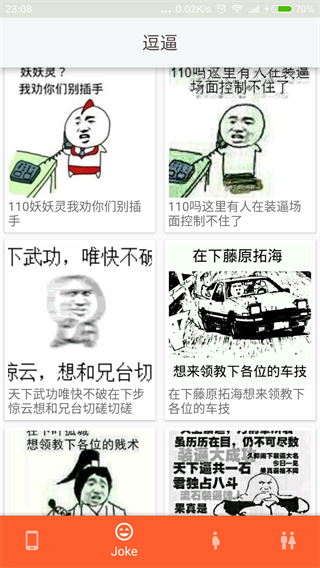
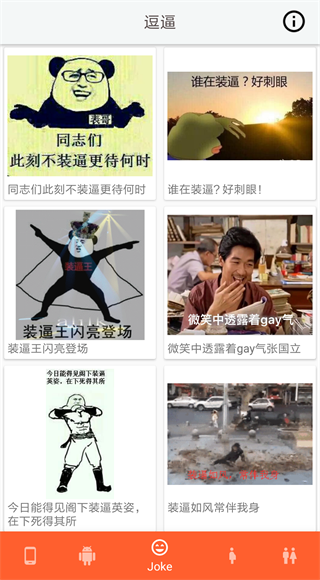
update image

diff --git a/README.md b/README.md
@@ -9,6 +9,7 @@
 
 
 ![](https://github.com/Wing-Li/boon/blob/master/img/learn.png)
+![](https://github.com/Wing-Li/boon/blob/master/img/android.png)
 ![](https://github.com/Wing-Li/boon/blob/master/img/joke.png)
 ![](https://github.com/Wing-Li/boon/blob/master/img/young.png)
 
